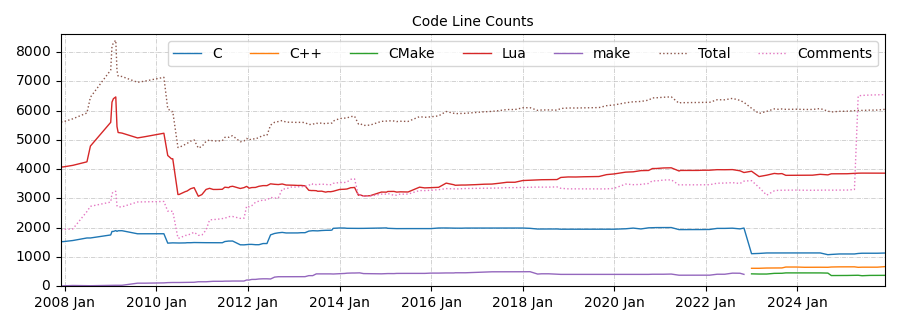
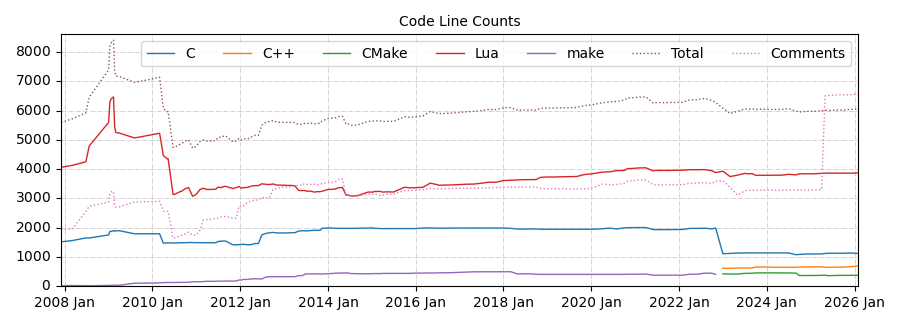
Updated for 13.0 alpha 2.

diff --git a/docs/README.md b/docs/README.md
@@ -58,7 +58,7 @@ and a Qt runtime is distributed with Windows and macOS builds.
 You can download pre-built binaries for various platforms, as well as source code from the
 links below.
 
-Stable Release<br/>(12.9) | Unstable Release<br/>(13.0 alpha) | Experimental<br/>nightly build
+Stable Release<br/>(12.9) | Unstable Release<br/>(13.0 alpha 2) | Experimental<br/>nightly build
 -|-|-
 [Windows][stable win] | [Windows][unstable win] | [Windows][nightly win]
 [macOS][stable mac] | [macOS][unstable mac] (Apple Silicon) | [macOS][nightly mac] (Apple Silicon)
@@ -74,12 +74,12 @@ A list of all released versions is [here][all versions] along with their release
 [stable arm]: https://github.com/orbitalquark/textadept/releases/download/textadept_12.9/textadept_12.9.linux.arm.tgz
 [stable modules]: https://github.com/orbitalquark/textadept/releases/download/textadept_12.9/textadept_12.9.modules.zip
 [stable source]: https://github.com/orbitalquark/textadept/archive/refs/tags/textadept_12.9.zip
-[unstable win]: https://github.com/orbitalquark/textadept/releases/download/textadept_13.0_alpha/textadept_13.0_alpha.win.zip
-[unstable mac]: https://github.com/orbitalquark/textadept/releases/download/textadept_13.0_alpha/textadept_13.0_alpha.macOS.zip
-[unstable linux]: https://github.com/orbitalquark/textadept/releases/download/textadept_13.0_alpha/textadept_13.0_alpha.linux.tgz
-[unstable arm]: https://github.com/orbitalquark/textadept/releases/download/textadept_13.0_alpha/textadept_13.0_alpha.linux.arm.tgz
-[unstable modules]: https://github.com/orbitalquark/textadept/releases/download/textadept_13.0_alpha/textadept_13.0_alpha.modules.zip
-[unstable source]: https://github.com/orbitalquark/textadept/archive/refs/tags/textadept_13.0_alpha.zip
+[unstable win]: https://github.com/orbitalquark/textadept/releases/download/textadept_13.0_alpha_2/textadept_13.0_alpha_2.win.zip
+[unstable mac]: https://github.com/orbitalquark/textadept/releases/download/textadept_13.0_alpha_2/textadept_13.0_alpha_2.macOS.zip
+[unstable linux]: https://github.com/orbitalquark/textadept/releases/download/textadept_13.0_alpha_2/textadept_13.0_alpha_2.linux.tgz
+[unstable arm]: https://github.com/orbitalquark/textadept/releases/download/textadept_13.0_alpha_2/textadept_13.0_alpha_2.linux.arm.tgz
+[unstable modules]: https://github.com/orbitalquark/textadept/releases/download/textadept_13.0_alpha_2/textadept_13.0_alpha_2.modules.zip
+[unstable source]: https://github.com/orbitalquark/textadept/archive/refs/tags/textadept_13.0_alpha_2.zip
 [nightly win]: https://github.com/orbitalquark/textadept/releases/download/textadept_nightly/textadept_nightly.win.zip
 [nightly mac]: https://github.com/orbitalquark/textadept/releases/download/textadept_nightly/textadept_nightly.macOS.zip
 [nightly linux]: https://github.com/orbitalquark/textadept/releases/download/textadept_nightly/textadept_nightly.linux.tgz

diff --git a/docs/api.md b/docs/api.md
@@ -1,4 +1,4 @@
-# Textadept 13.0 nightly API Documentation
+# Textadept 13.0 alpha 2 API Documentation
 
 1. [_G](#_G)
 2. [_L](#_L)
@@ -7966,6 +7966,9 @@ None | None | None | Find previous
 None | None | None | Replace
 None | None | None | Replace all
 Ctrl+Alt+F | ^⌘F | M-F | Find incremental
+None | ⌥⌘M | None | Toggle Match Case
+None | ⌥⌘W | None | Toggle Whole Word
+None | ⌥⌘X | None | Toggle Regex
 Ctrl+Shift+F | ⌘⇧F | M-^F | Find in files
 Ctrl+Alt+G | ^⌘G | M-G | Go to next file found
 Ctrl+Alt+Shift+G | ^⌘⇧G | M-S-G | Go to previous file found
@@ -8002,8 +8005,8 @@ None | None | None | Complete trigger word
 Ctrl+Shift+H | ⌘⇧H | M-S-H | Show typed keys in statusbar
 None | None | None | Show style
 **Buffer**| | |
-Ctrl+Tab<br/>Ctrl+PgDn | ^⇥<br/>⌘⇟ | M-PgDn<br/> ^Tab<sup>d</sup> | Next buffer
-Ctrl+Shift+Tab<br/>Ctrl+PgUp | ^⇧⇥<br/>⌘⇞ | M-PgUp<br/>S-^Tab<sup>d</sup> | Previous buffer
+Ctrl+Tab<br/>Ctrl+PgDn | ⌘}<br/>^⇥ | M-PgDn<br/> ^Tab<sup>d</sup> | Next buffer
+Ctrl+Shift+Tab<br/>Ctrl+PgUp | ⌘{<br/>^⇧⇥ | M-PgUp<br/>S-^Tab<sup>d</sup> | Previous buffer
 Ctrl+B | ⌘B | ^B | Switch to buffer...
 None | None | None | Tab width: 2
 None | None | None | Tab width: 3
@@ -8029,7 +8032,7 @@ Ctrl+Alt+W | ^⌘W | M-W | Unsplit view
 Ctrl+Alt+Shift+W | ^⌘⇧W | M-S-W | Unsplit all views
 Ctrl+Alt++<br/>Ctrl+Alt+= | ^⌘+<br/>^⌘= | M-+<br/>M-= | Grow view
 Ctrl+Alt+- | ^⌘- | M-- | Shrink view
-Ctrl+} | ⌘} | M-} | Toggle current fold
+Ctrl+) | ⌘) | M-) | Toggle current fold
 None | None | None | Toggle Level 1 Folds
 None | None | None | Toggle Level 2 Folds
 None | None | None | Toggle Level 3 Folds

diff --git a/docs/manual.md b/docs/manual.md
@@ -1,4 +1,4 @@
-# Textadept 13.0 nightly Manual
+# Textadept 13.0 alpha 2 Manual
 
 **Contents**
 
